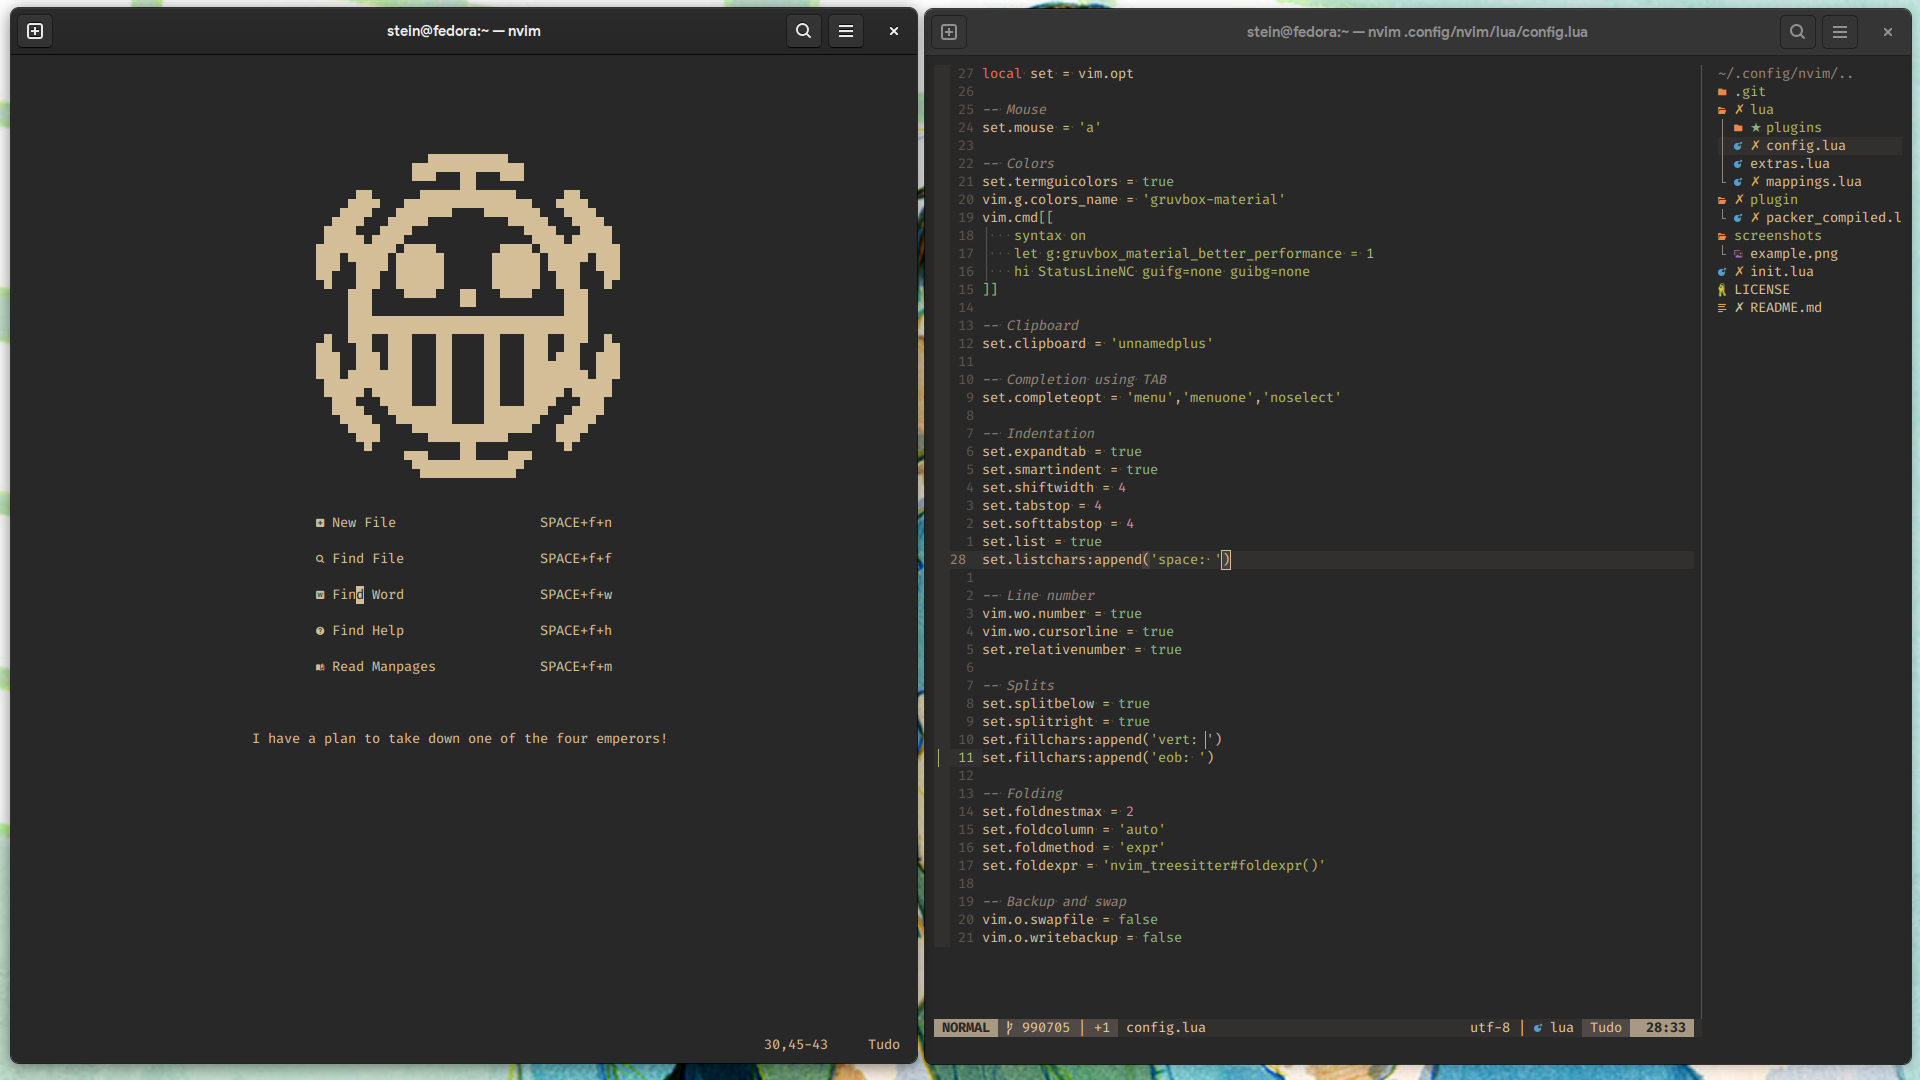
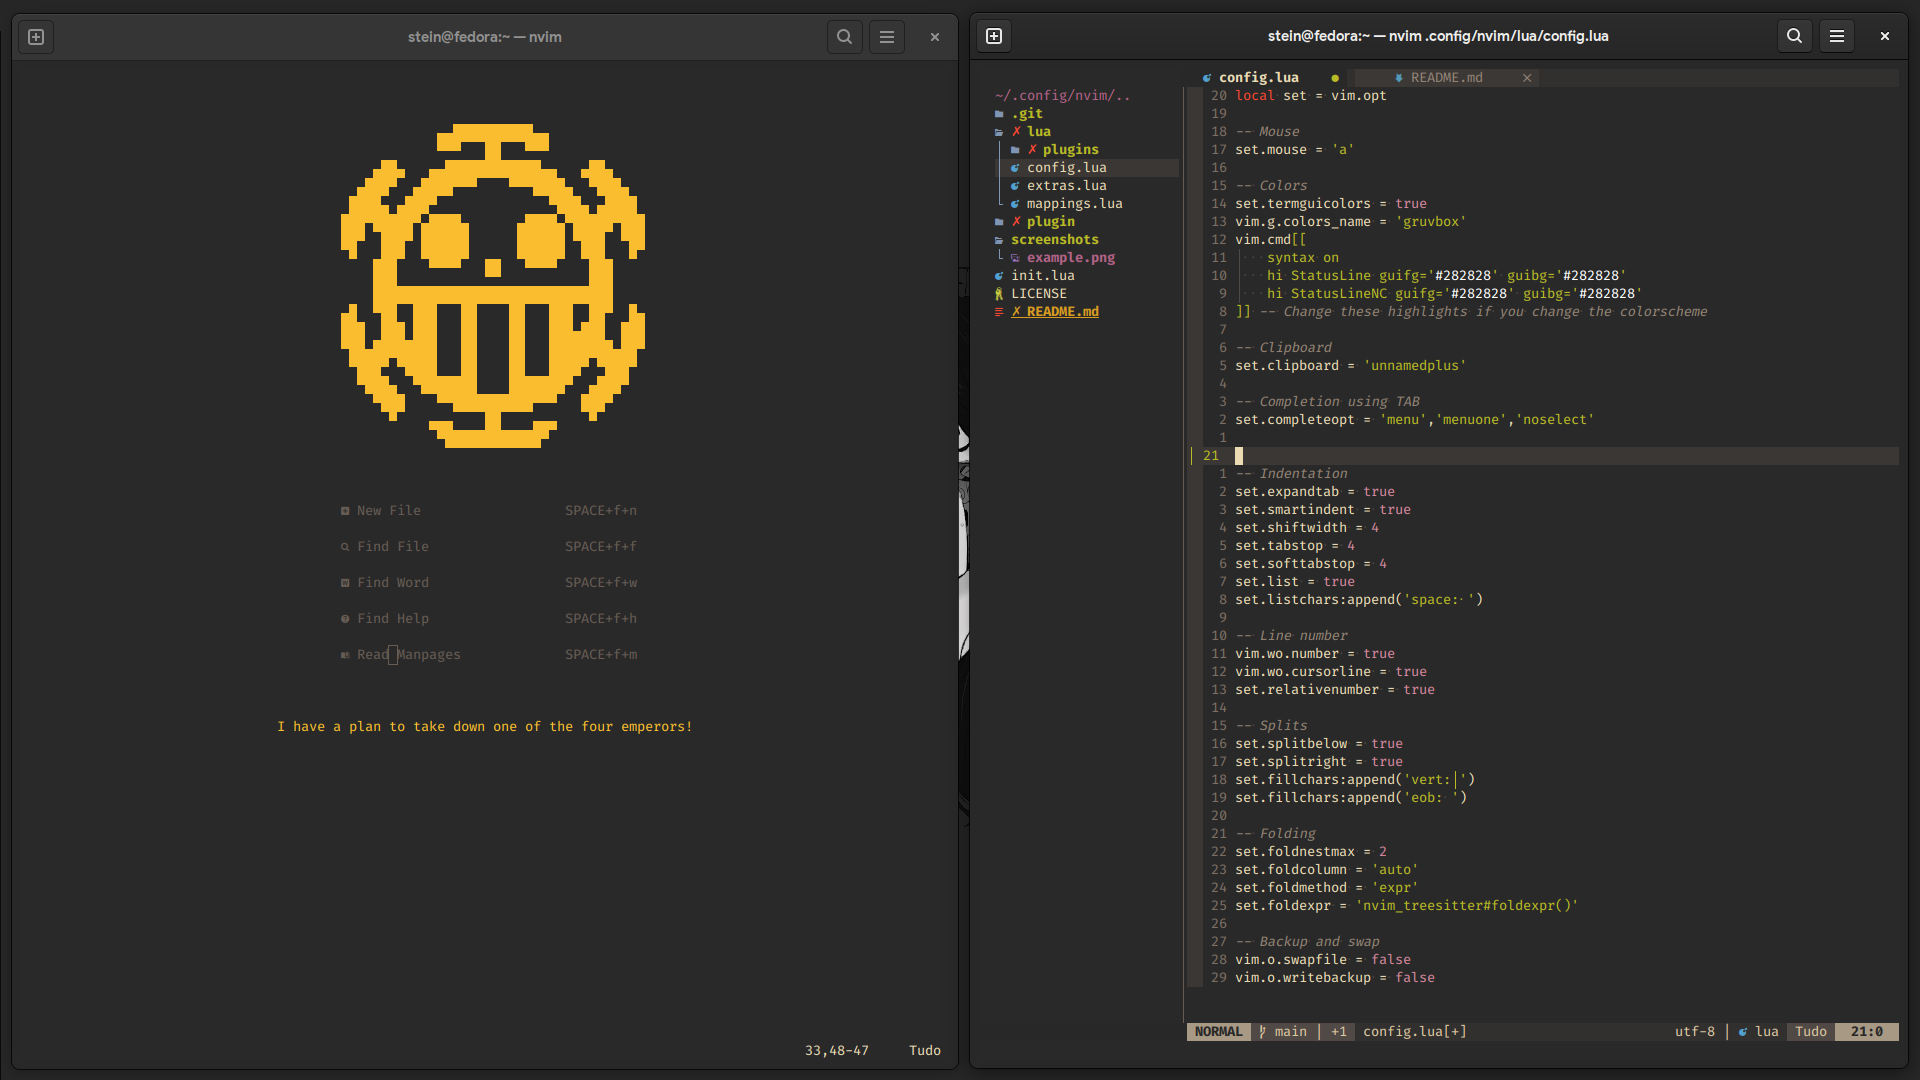
Changed gruvbox to a version fully made in Lua and updated the example screenshot

diff --git a/README.md b/README.md
@@ -8,6 +8,9 @@ I like Neovim. A lot. I tried using VsCode for my really basic programming needs
 
 With no experience in Lua, a lot of procrastination time that should have gone to college work poured into it and a lot of trial and error, it's alive! So now I want to maintain it and make it public so people who actually know what they are doing can help make it better.
 
+### Colorscheme used
+  - [gruvbox.nvim](https://github.com/ellisonleao/gruvbox.nvim) - a port of the original gruvbox colorscheme made entirely in Lua using lush as a base; really good, really fast and optimized
+
 ### Language servers pre-configured with:
   - [lspconfig](https://github.com/neovim/nvim-lspconfig) - for native LSP
   - [cmp-nvim-lsp](https://github.com/hrsh7th/cmp-nvim-lsp) - for better integration with the native LSP
